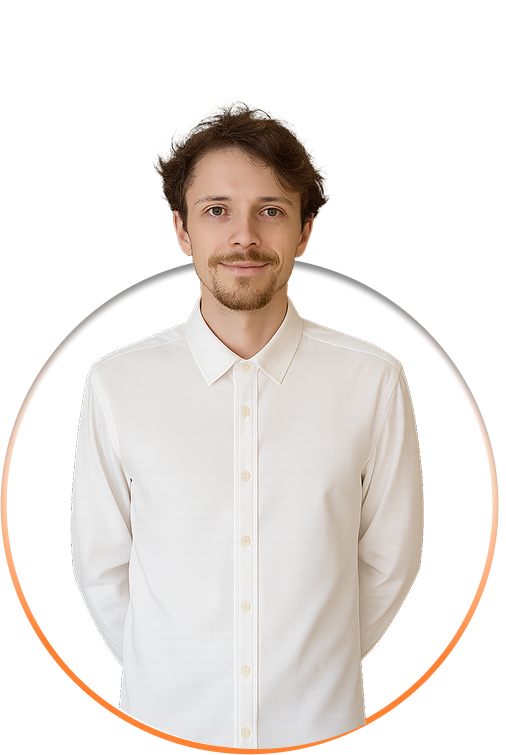
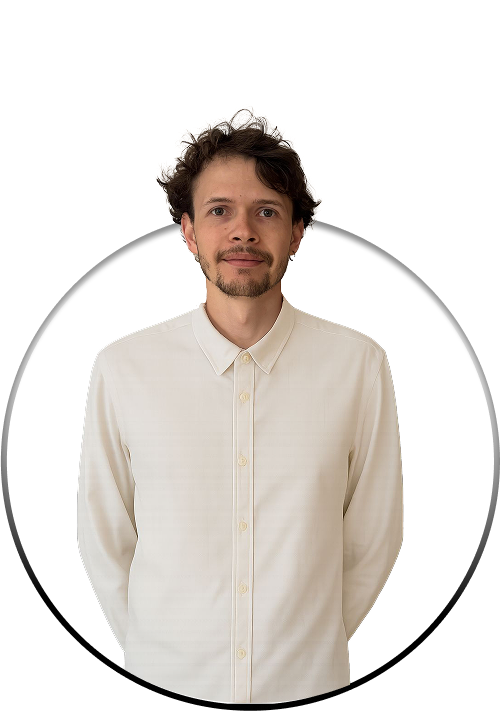
Chnage profile image

Changed region(s): [[0.0, 0.1238, 0.8367, 1.0], [0.6873, 0.3404, 1.0, 0.8973]]

diff --git a/src/App.jsx b/src/App.jsx
@@ -86,25 +86,25 @@ const App = () => {
           <h4 className="about-me-right_jobs">Web Developer</h4>
           <img
             className="about-me-right_progress-bar"
-            src="Portafolio-Gregoire-Careme/assets/progress-bar-3.png"
+            src="/Portafolio-Gregoire-Careme/assets/progress-bar-3.png"
             alt="Progress Bar"
           />
           <h4 className="about-me-right_jobs">Website Optimization</h4>
           <img
             className="about-me-right_progress-bar"
-            src="Portafolio-Gregoire-Careme/assets/progress-bar-2.png"
+            src="/Portafolio-Gregoire-Careme/assets/progress-bar-2.png"
             alt="Progress Bar"
           />
           <h4 className="about-me-right_jobs">Game developer</h4>
           <img
             className="about-me-right_progress-bar"
-            src="Portafolio-Gregoire-Careme/assets/progress-bar-1.png"
+            src="/Portafolio-Gregoire-Careme/assets/progress-bar-1.png"
             alt="Progress Bar"
           />
           <h4 className="about-me-right_jobs">Sound Engineer</h4>
           <img
             className="about-me-right_progress-bar"
-            src="Portafolio-Gregoire-Careme/assets/progress-bar-4.png"
+            src="/Portafolio-Gregoire-Careme/assets/progress-bar-4.png"
             alt="Progress Bar"
           />
         </div>
